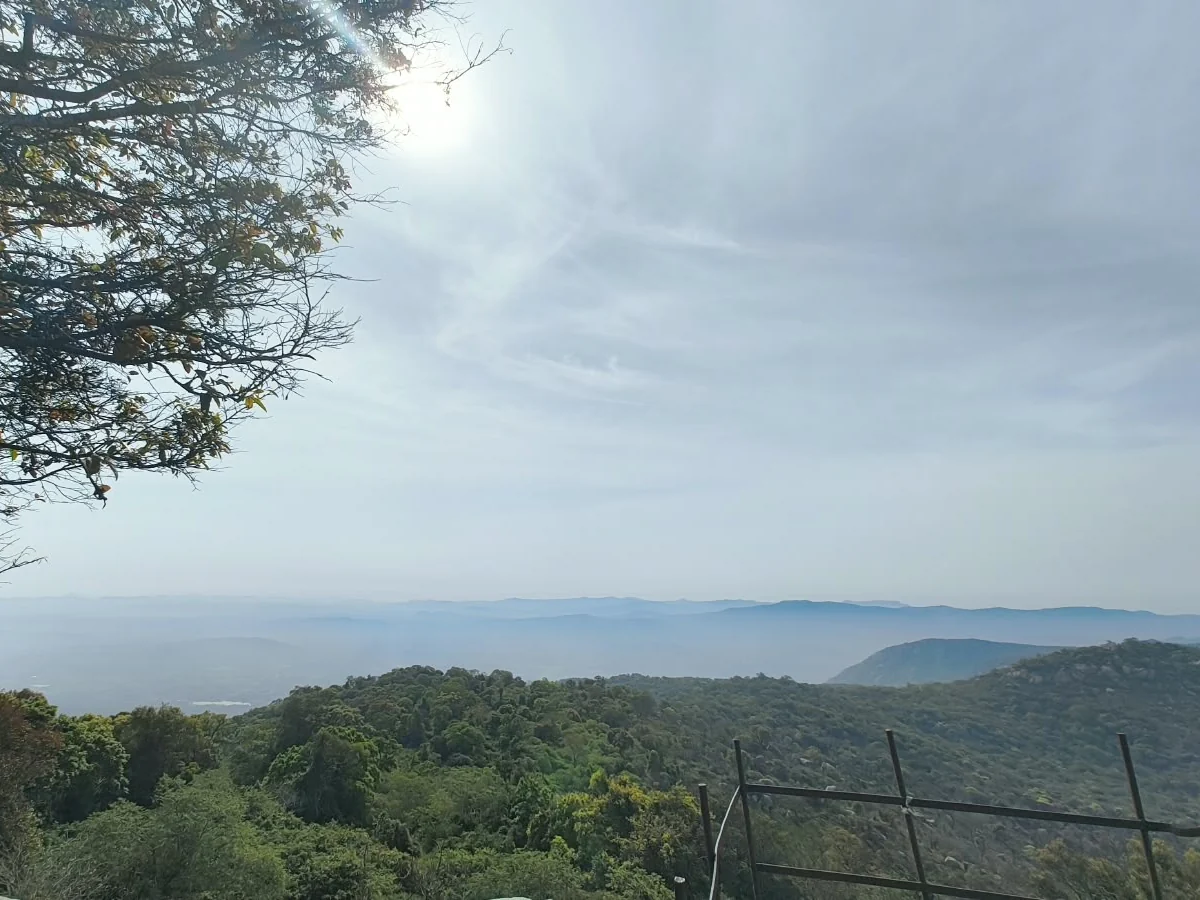
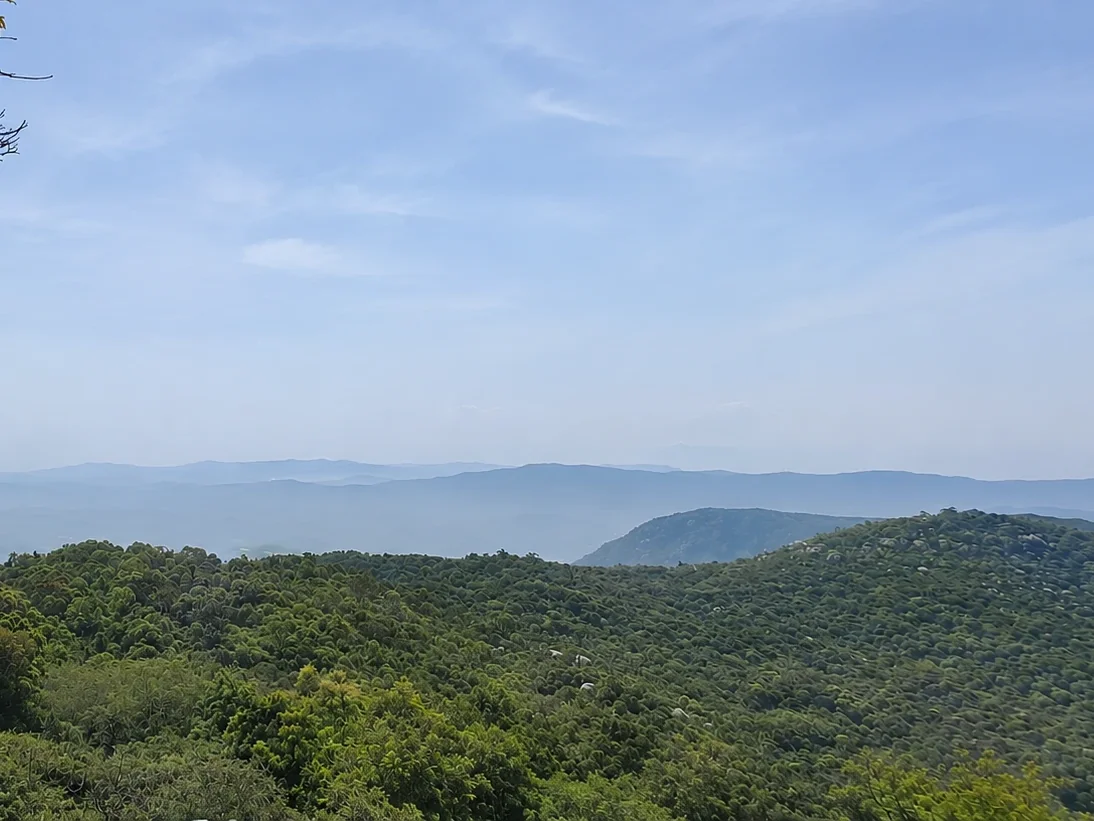
Home hero: brighter, wider Swamymalai photo
Claude-Session: https://claude.ai/code/session_01KE5xJgvgwTSHPfQXBhYJoS

diff --git a/public/index.html b/public/index.html
@@ -49,9 +49,9 @@
     </div>
     <figure class="hero-photo">
       <picture>
-        <source media="(max-width: 920px)" srcset="img/home/hero-swamymalai-m.webp">
-        <source media="(max-width: 1100px)" srcset="img/home/hero-swamymalai-sm.webp 1000w, img/home/hero-swamymalai.webp 1600w" sizes="100vw">
-        <img src="img/home/hero-swamymalai.webp" alt="Forested hills and the plains below, seen from the top of Swamymalai" width="1600" height="685" fetchpriority="high">
+        <source media="(max-width: 920px)" srcset="img/home/hero-swamymalai-m.webp?v=18c360a0">
+        <source media="(max-width: 1100px)" srcset="img/home/hero-swamymalai-sm.webp?v=59906715 1000w, img/home/hero-swamymalai.webp?v=cc16d4b3 1916w" sizes="100vw">
+        <img src="img/home/hero-swamymalai.webp?v=cc16d4b3" alt="Forested hills and the plains below, seen from the top of Swamymalai" width="1916" height="821" fetchpriority="high">
       </picture>
       <figcaption>The view from Swamymalai, whose trek starts 100 m from our gate</figcaption>
     </figure>

diff --git a/build.py b/build.py
@@ -415,9 +415,9 @@ def home(p):
     </div>
     <figure class="hero-photo">
       <picture>
-        <source media="(max-width: 920px)" srcset="{p}img/home/hero-swamymalai-m.webp">
-        <source media="(max-width: 1100px)" srcset="{p}img/home/hero-swamymalai-sm.webp 1000w, {p}img/home/hero-swamymalai.webp 1600w" sizes="100vw">
-        <img src="{p}img/home/hero-swamymalai.webp" alt="Forested hills and the plains below, seen from the top of Swamymalai" width="1600" height="685" fetchpriority="high">
+        <source media="(max-width: 920px)" srcset="{p}img/home/hero-swamymalai-m.webp?v={version('img/home/hero-swamymalai-m.webp')}">
+        <source media="(max-width: 1100px)" srcset="{p}img/home/hero-swamymalai-sm.webp?v={version('img/home/hero-swamymalai-sm.webp')} 1000w, {p}img/home/hero-swamymalai.webp?v={version('img/home/hero-swamymalai.webp')} 1916w" sizes="100vw">
+        <img src="{p}img/home/hero-swamymalai.webp?v={version('img/home/hero-swamymalai.webp')}" alt="Forested hills and the plains below, seen from the top of Swamymalai" width="1916" height="821" fetchpriority="high">
       </picture>
       <figcaption>The view from Swamymalai, whose trek starts 100 m from our gate</figcaption>
     </figure>
